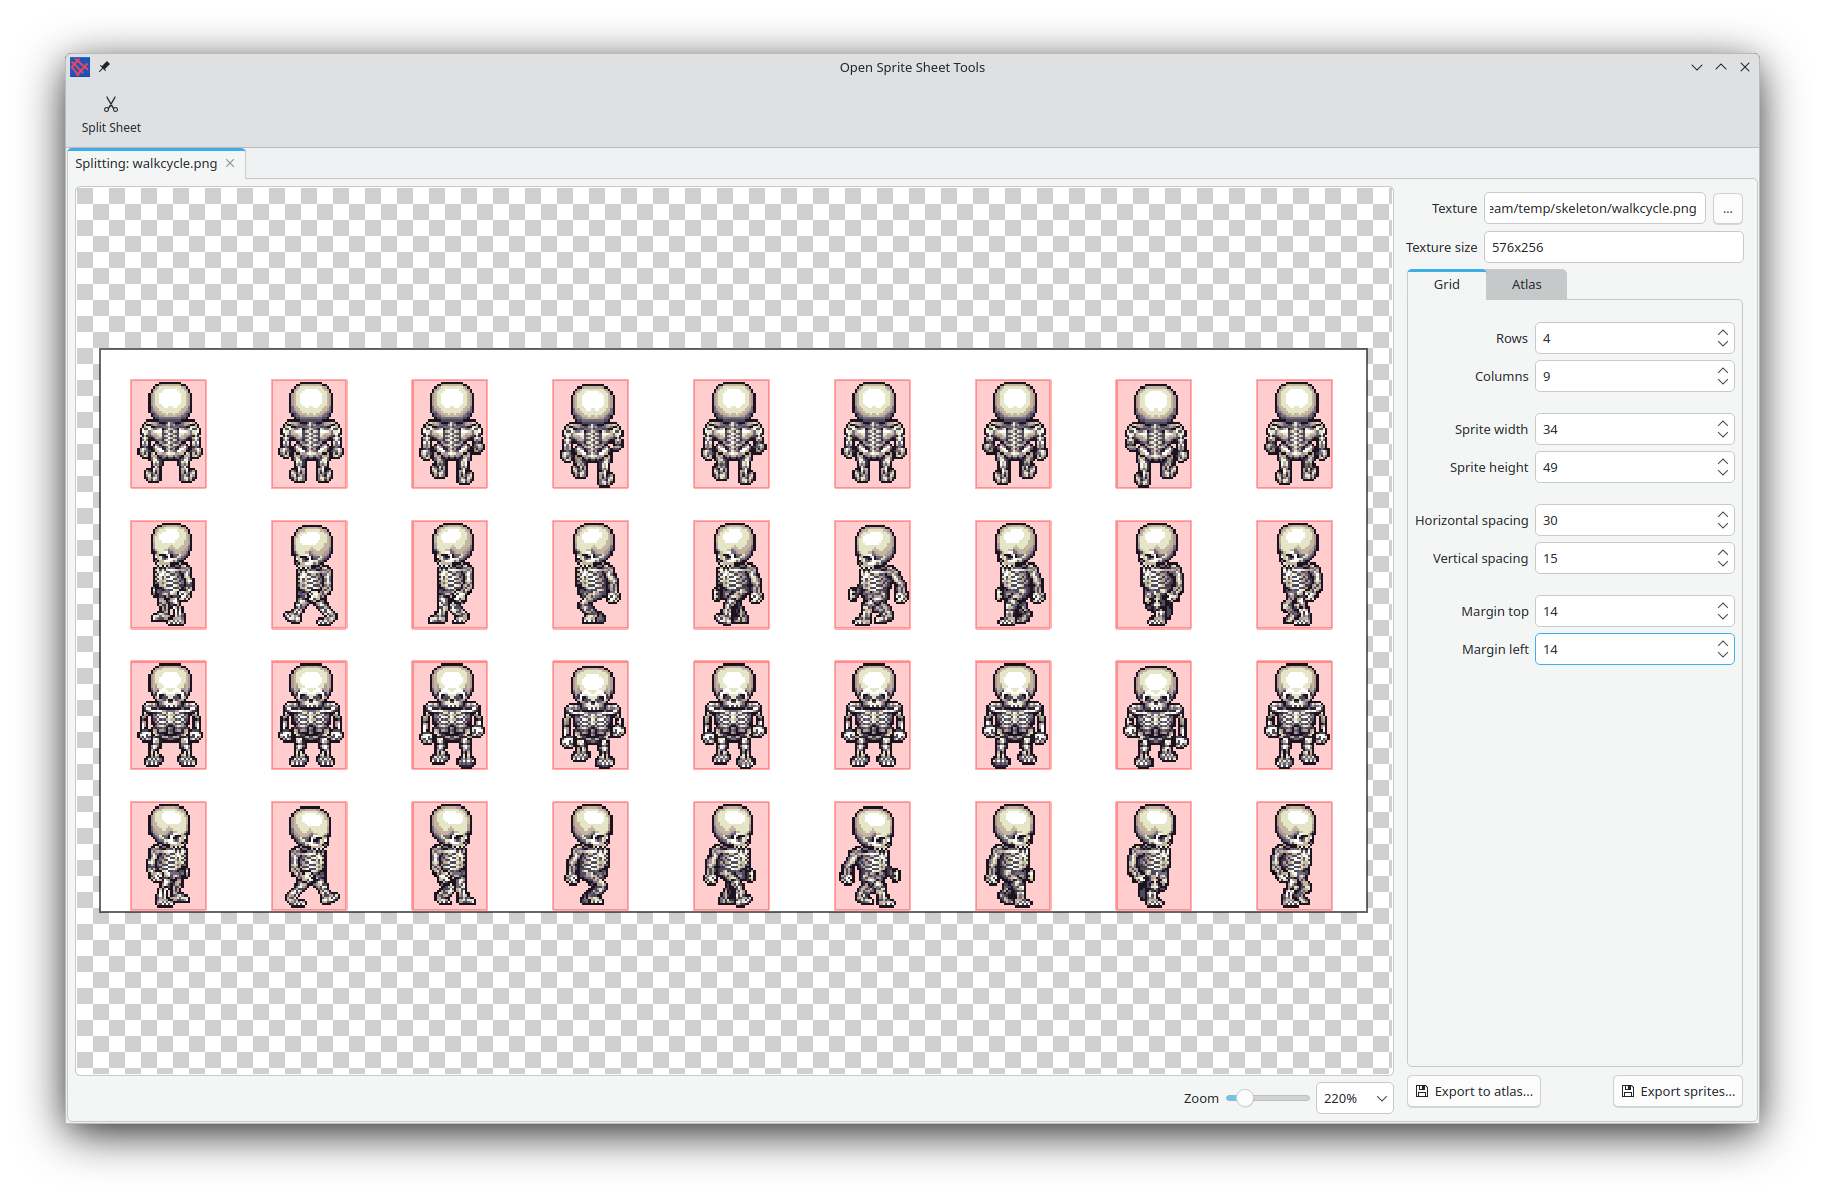
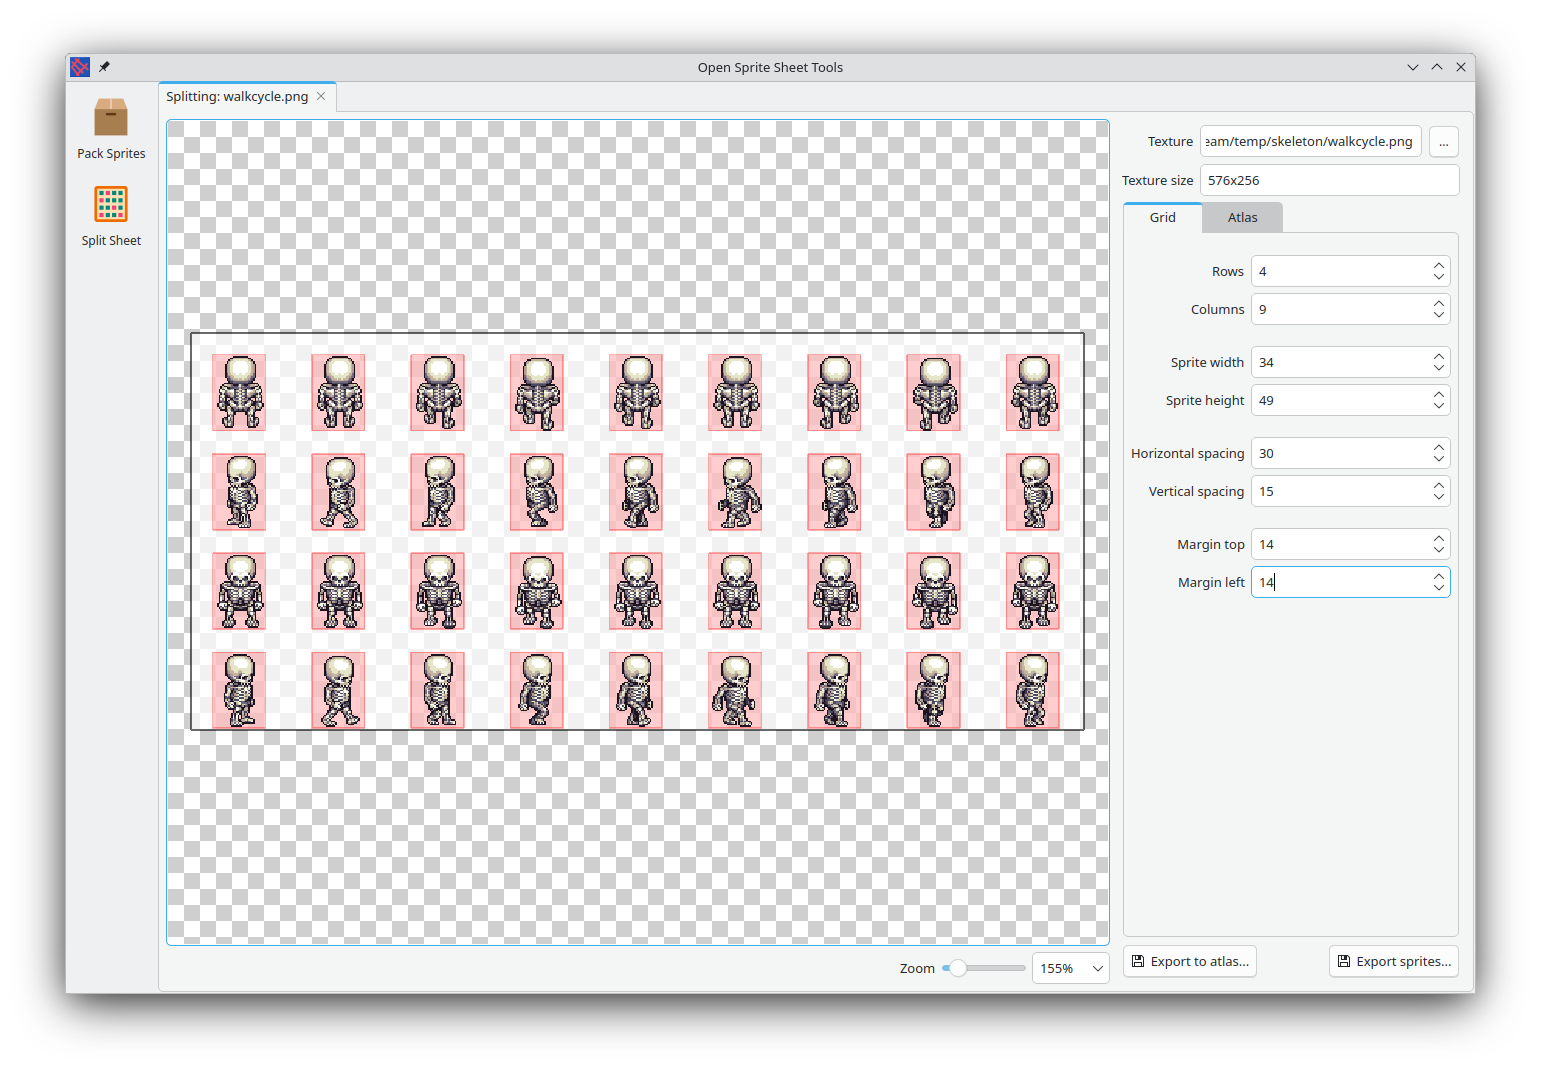
Preparing for packing

diff --git a/src/OpenSpritSheetTools/Gui/SpritePackerWidget.cpp b/src/OpenSpritSheetTools/Gui/SpritePackerWidget.cpp
@@ -16,57 +16,10 @@
  *                                                                                                        *
  **********************************************************************************************************/
 
-#include <OpenSpritSheetTools/Gui/SpriteSheetSplitterWidget.h>
 #include <OpenSpritSheetTools/Gui/SpritePackerWidget.h>
-#include <OpenSpritSheetTools/Gui/MainWindow.h>
-#include <OpenSpritSheetTools/Settings.h>
-#include <QFileInfo>
 
-MainWindow::MainWindow(QWidget *_parent) :
-    QMainWindow(_parent)
+SpritePackerWidget::SpritePackerWidget(QWidget * _parent) :
+    QWidget(_parent)
 {
     setupUi(this);
-    QSettings settings;
-    restoreGeometry(settings.value(gc_settings_key_wnd_geom).toByteArray());
-    restoreState(settings.value(gc_settings_key_wnd_state).toByteArray());
-
-    m_btn_pack_sprites->setDefaultAction(m_action_pack_sprites);
-    m_btn_split_sheet->setDefaultAction(m_action_split_sheet);
-
-    connect(m_tabs, &QTabWidget::tabCloseRequested, this, &MainWindow::closeTab);
-    connect(m_action_split_sheet, &QAction::triggered, this, &MainWindow::showSheetSplitter);
-    connect(m_action_pack_sprites, &QAction::triggered, this, &MainWindow::showSpritePacker);
-}
-
-void MainWindow::closeEvent(QCloseEvent * _event)
-{
-    QSettings settings;
-    settings.setValue(gc_settings_key_wnd_geom, saveGeometry());
-    settings.setValue(gc_settings_key_wnd_state, saveState());
-}
-
-void MainWindow::showSheetSplitter()
-{
-    SpriteSheetSplitterWidget * widget = new SpriteSheetSplitterWidget(this);
-    m_tabs->setCurrentIndex(m_tabs->addTab(widget, tr("Split Sprite Sheet")));
-    connect(widget, &SpriteSheetSplitterWidget::sheetLoaded, this, [this, widget](const QString & _filename) {
-        int index = m_tabs->indexOf(widget);
-        if(index >= 0)
-        {
-            QFileInfo fi(_filename);
-            m_tabs->setTabText(index, tr("Splitting: %1").arg(fi.fileName()));
-        }
-    });
-}
-
-void MainWindow::showSpritePacker()
-{
-    SpritePackerWidget * widget = new SpritePackerWidget(this);
-    int tab = m_tabs->addTab(widget, tr("Pack Sprites"));
-    m_tabs->setCurrentIndex(tab);
-}
-
-void MainWindow::closeTab(int _index)
-{
-    m_tabs->widget(_index)->deleteLater();
 }

diff --git a/src/OpenSpritSheetTools/Gui/SpritePackerWidget.h b/src/OpenSpritSheetTools/Gui/SpritePackerWidget.h
@@ -18,21 +18,12 @@
 
 #pragma once
 
-#include "./ui_MainWindow.h"
-#include <QMainWindow>
+#include "ui_SpritePackerWidget.h"
 
-class MainWindow : public QMainWindow, private Ui::MainWindow
+class SpritePackerWidget : public QWidget, private Ui::SpritePackerWidget
 {
     Q_OBJECT
 
 public:
-    MainWindow(QWidget * _parent = nullptr);
-
-protected:
-    void closeEvent(QCloseEvent * _event) override;
-
-private slots:
-    void showSheetSplitter();
-    void showSpritePacker();
-    void closeTab(int _index);
+    explicit SpritePackerWidget(QWidget * _parent = nullptr);
 };

diff --git a/src/OpenSpritSheetTools/Gui/SpriteSheetSplitterWidget.cpp b/src/OpenSpritSheetTools/Gui/SpriteSheetSplitterWidget.cpp
@@ -30,7 +30,7 @@ SpriteSheetSplitterWidget::SpriteSheetSplitterWidget(QWidget *parent) :
     QWidget(parent),
     m_pixmap(new QPixmap()),
     m_sheet_pen(QColor(0, 0, 0, 150)),
-    m_sheet_brush(QColor(255, 255, 255, 255)),
+    m_sheet_brush(QColor(255, 255, 255, 180)),
     m_sprite_pen(QColor(255, 0, 0, 80)),
     m_sprite_brush(QColor(255, 0, 0, 50))
 {
